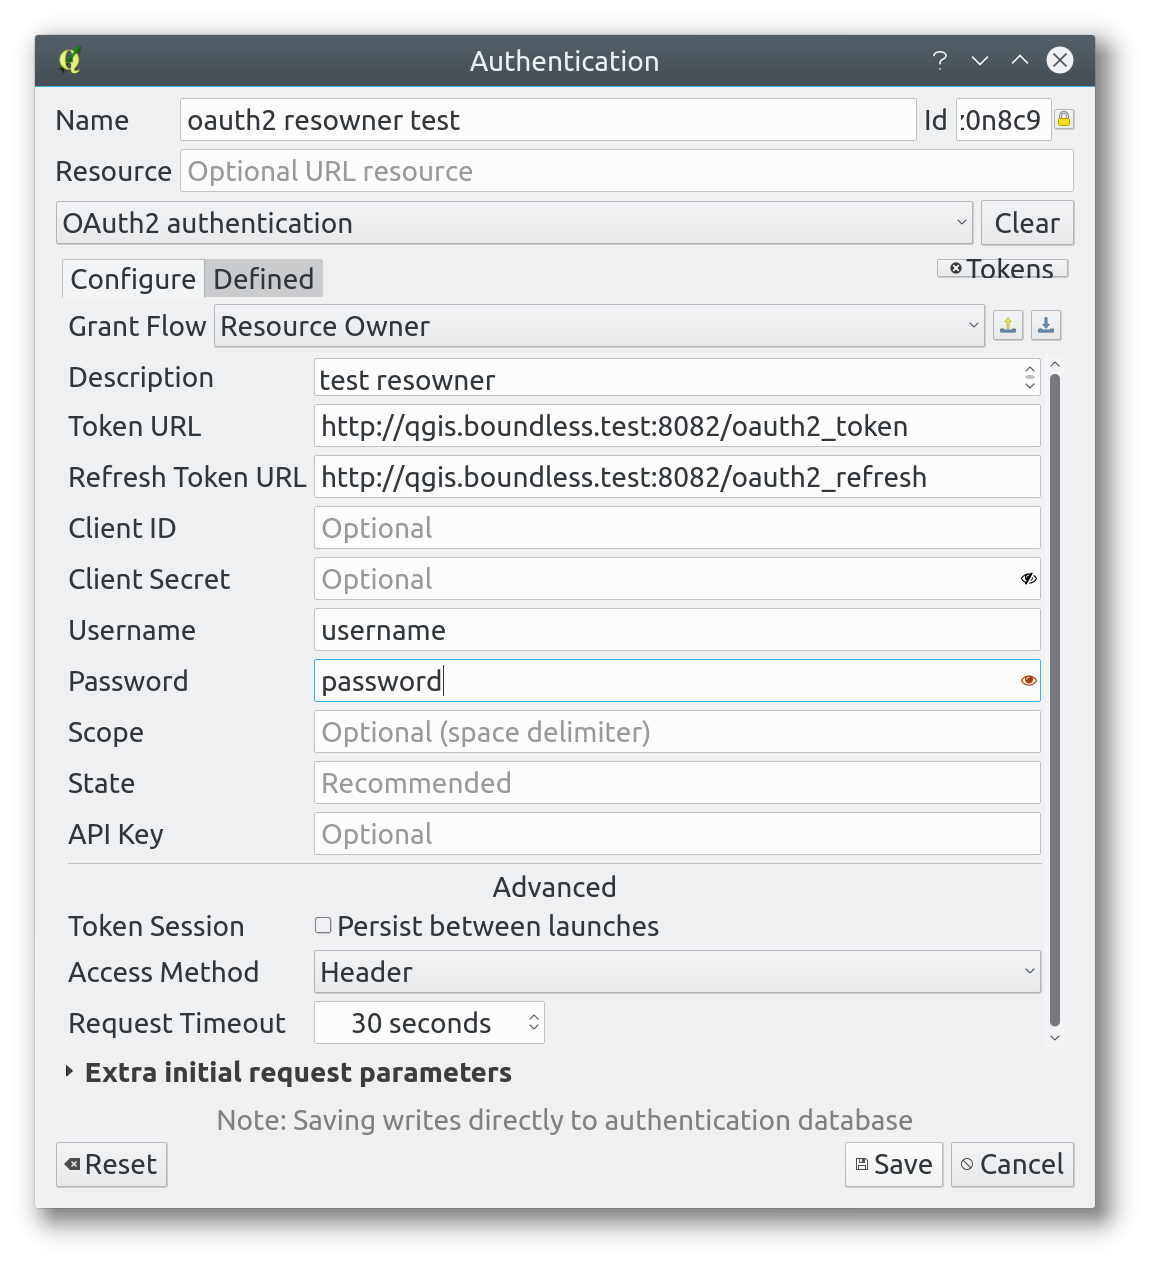
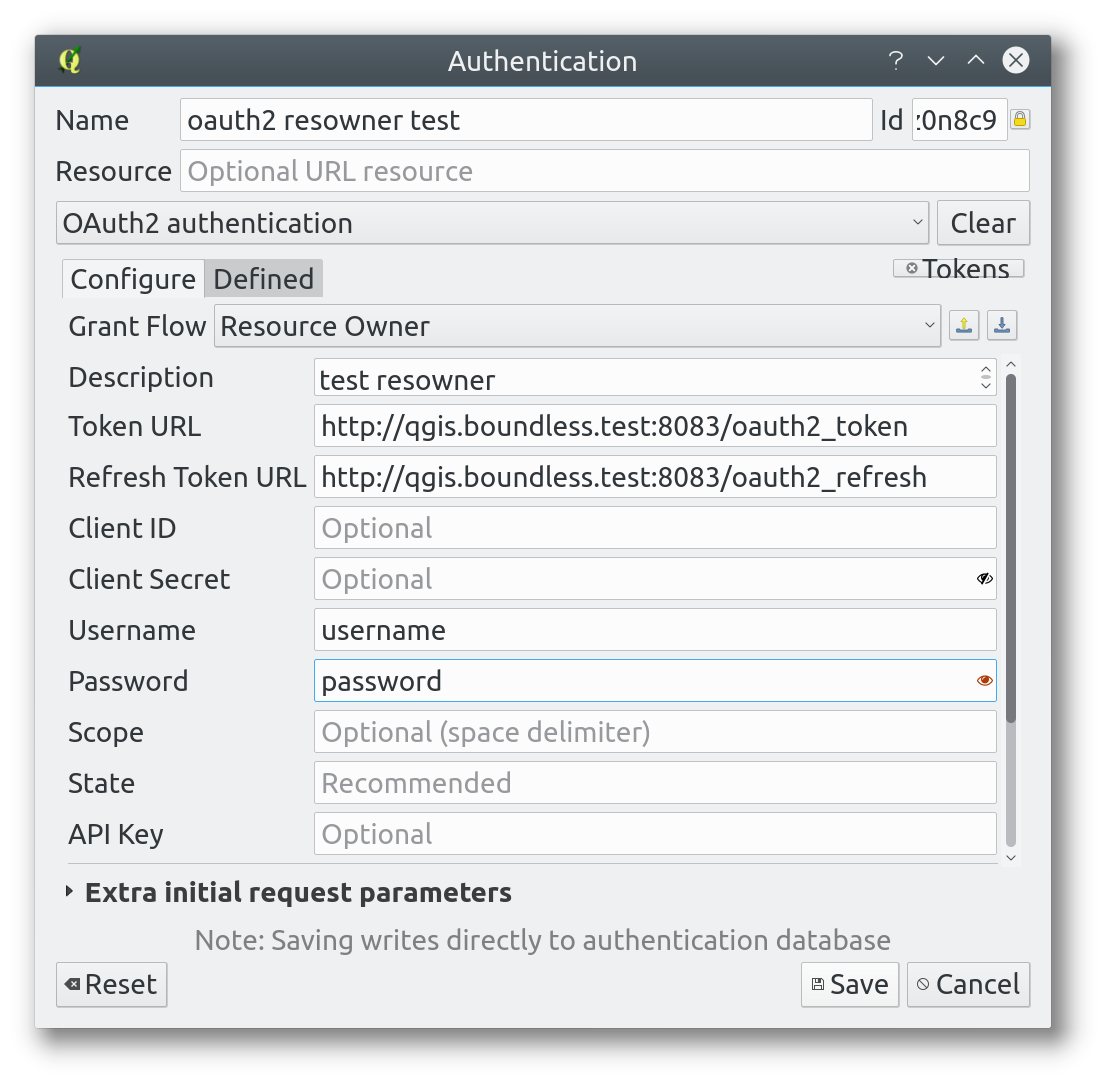
Fixed oauth2 changed port to 8083

Changed region(s): [[0.0307, 0.0, 0.9513, 0.9733]]

diff --git a/qgis_oauth2_wrapped_server.py b/qgis_oauth2_wrapped_server.py
@@ -39,7 +39,7 @@ __revision__ = '$Format:%H$'
 
 
 
-QGIS_SERVER_PORT = int(os.environ.get('QGIS_SERVER_PORT', '8082'))
+QGIS_SERVER_PORT = int(os.environ.get('QGIS_SERVER_PORT', '8083'))
 #QGIS_SERVER_HOST = os.environ.get('QGIS_SERVER_HOST', '127.0.0.1')
 QGIS_SERVER_HOST = '' # listen an all interfaces
 
@@ -55,6 +55,7 @@ QGIS_SERVER_OAUTH2_TOKEN_EXPIRES_IN = os.environ.get(
     'QGIS_SERVER_OAUTH2_TOKEN_EXPIRES_IN', 3600)
 
 
+print("SERVER_NAME (from env, will be used fo urls): %s" % os.environ.get('SERVER_NAME'))
 print("OAuth2 username: %s" % QGIS_SERVER_OAUTH2_USERNAME)
 print("OAuth2 password: %s" % QGIS_SERVER_OAUTH2_PASSWORD)
 
@@ -214,7 +215,7 @@ class Handler(BaseHTTPRequestHandler):
             #print('Setting ENV var %s to %s' % ('HTTP_%s' % k.replace(' ', '-').replace('-', '_').replace(' ', '-').upper(), v))
             qgs_server.putenv('HTTP_%s' % k.replace(' ', '-').replace('-', '_').replace(' ', '-').upper(), v)
         qgs_server.putenv('SERVER_PORT', str(self.server.server_port))
-        qgs_server.putenv('SERVER_NAME', self.server.server_name)
+        qgs_server.putenv('SERVER_NAME', os.environ.get('SERVER_NAME' ,self.server.server_name))
         qgs_server.putenv('REQUEST_URI', self.path)
         if data is not None:
             qgs_server.putenv('REQUEST_BODY', data)

diff --git a/README.md b/README.md
@@ -37,10 +37,10 @@ $ docker build -t qgis-server --build-arg APT_CATCHER_IP=$ADDR .
 
 # Running
 
-To run a container, assuming that you want it available on host port 8081 (and OAuth2 on 8082) do:
+To run a container, assuming that you want it available on host port 8081 (and OAuth2 on 8083) do:
 
 ```
-$ docker run -p 8081:80 -p 8082:8082 -it -h qgis.boundless.test --name qgis-server qgis-server
+$ docker run -p 8081:80 -p 8083:8083 -it -h qgis.boundless.test --name qgis-server qgis-server
 ```
 
 You might want to mount the `/web` folder as a local volume that contains your
@@ -70,14 +70,14 @@ docker run -d \
 
 ### QGIS Server
 
-In order to test OAuth2 resource owner grant flow, a Python script that relies on QGIS Server is listening on container port `8082` (mapped to host port `8083`).
+In order to test OAuth2 resource owner grant flow, a Python script that relies on QGIS Server is listening on container port `8083`.
 
-**Note**: this functionality requires an hostname set in the container.
+**Note**: this functionality requires an hostname set in the container (use `-h <your_hostname>` when launching the container).
 
 In order to connect to the OAuth2 endpoint you must pass `oauth2=true` in the URL,
 for example:
 
-(http://qgis.boundless.test:8082/oauth2=true&MAP=/web/projects/helloworld.qgs&SERVICE=WMS&REQUEST=GetCapabilities).
+(http://qgis.boundless.test:8083/oauth2=true&MAP=/web/projects/helloworld.qgs&SERVICE=WMS&REQUEST=GetCapabilities).
 
 #### OAuth2 client configuration
 
@@ -133,7 +133,7 @@ http://localhost:8081/cgi-bin/qgis_mapserv.fcgi?MAP=/web/projects/helloworld.qgs
 ## CGI, example project
 http://localhost:8081/cgi-bin/qgis_mapserv.cgi?MAP=/web/projects/helloworld.qgs&SERVICE=WMS&REQUEST=GetProjectsettings
 ## FastCGI example project, OAuth2 resource owner enabled
-http://localhost:8082/?oauth2=true&MAP=/web/projects/helloworld.qgs&SERVICE=WMS&REQUEST=GetProjectsettings
+http://localhost:8083/?oauth2=true&MAP=/web/projects/helloworld.qgs&SERVICE=WMS&REQUEST=GetProjectsettings
 
 
 
